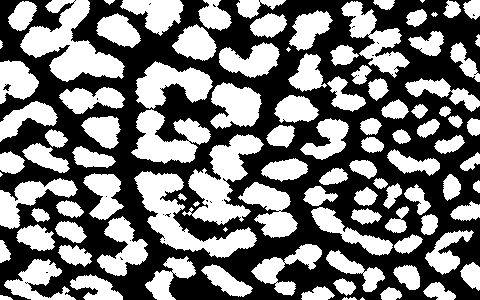
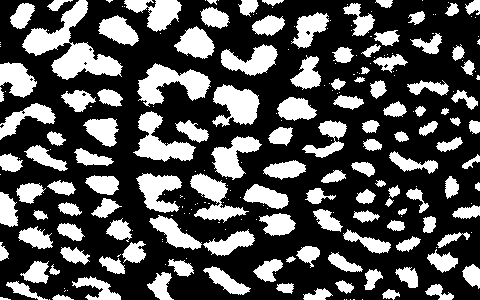
added measuring script

diff --git a/main.py b/main.py
@@ -28,54 +28,36 @@ def main():
 
     #and now, to import a man
     imgMan = cv2.imread("Resources/man.jpeg", 0)
-    #imgMan = cv2.resize(imgMan, (int(imgMan.shape[1] / 2), int(imgMan.shape[0] / 2)))
-
-    cv2.imshow("Grayscale", imgMan)
-    cv2.waitKey(0)
-
-    # plt.hist(imgMan.ravel(), 256, [0,256])
-    # plt.show()
-    # threshold = int(input("What should be the threshold?")) #200
-
     (thres, imgManBW) = cv2.threshold(imgMan, 230, 255, cv2.THRESH_BINARY_INV)
 
-    """
-
-    #the mother function. Dilation and Erotion are, in a way, each others inverse.
-    def dilerotion(img, kernel, dilating=True, BLForeground=False):
-        imgNew = np.zeros_like(img)
-
-        width = img.shape[1]
-        height = img.shape[0]
-
-        if (dilating^BLForeground):
-            for y in range(1, height - 1):
-                for x in range(1, width - 1):
-                    newValue = np.logical_and(img[y - 1: y + 2, x - 1: x + 2], kernel)
-                    imgNew[y, x] = np.any(newValue) * 255
-
-                if dilating:
-                    pb.printProgressBar(y, height - 2,prefix="Dilating...", length=50)
-                else:
-                    pb.printProgressBar(y, height - 2, prefix="Eroding...", length=50)
+    def erosion(img, kernel, blackForeground=False):
+        if blackForeground:
+            return dilation(img, kernel)
         else:
-            for y in range(1, height - 1):
-                for x in range(1, width - 1):
-                    newValue = np.logical_or(img[y - 1: y + 2, x - 1: x + 2], np.logical_not(kernel))
+            imgNew = np.zeros_like(img)
+
+            for y in range(1, img.shape[0] - 1):
+                for x in range(1, img.shape[1] - 1):
+                    newValue = np.bitwise_or(img[y - 1: y + 2, x - 1: x + 2], np.logical_not(kernel))
                     imgNew[y, x] = np.all(newValue) * 255
 
-                if dilating:
-                    pb.printProgressBar(y, height - 2,prefix="Dilating...", length=50)
-                else:
-                    pb.printProgressBar(y, height - 2, prefix="Eroding...", length=50)
-
-        return imgNew
+            return imgNew
 
     """
     #Dialation
     """
     def dilation(img, kernel, blackForeground=False):
-        return dilerotion(img, kernel, dilating=True, BLForeground= blackForeground)
+        if blackForeground:
+            return erosion(img, kernel)
+        else:
+            imgNew = np.zeros_like(img)
+
+            for y in range(1, img.shape[0] - 1):
+                for x in range(1, img.shape[1] - 1):
+                    newValue = np.bitwise_and(img[y - 1: y + 2, x - 1: x + 2], kernel)
+                    imgNew[y, x] = np.any(newValue) * 255
+
+            return imgNew
 
     kernel = np.array([[0, 1, 0], [1, 1, 1], [0, 1, 0]], dtype=np.uint8)
 
@@ -108,7 +90,17 @@ def main():
     #Erotion
     """
     def erotion(img, kernel, blackForeground=False):
-        return dilerotion(img, kernel, dilating=False, BLForeground=blackForeground)
+        if blackForeground:
+            return dilation(img, kernel)
+        else:
+            imgNew = np.zeros_like(img)
+
+            for y in range(1, img.shape[0] - 1):
+                for x in range(1, img.shape[1] - 1):
+                    newValue = np.bitwise_or(img[y - 1: y + 2, x - 1: x + 2], np.logical_not(kernel))
+                    imgNew[y, x] = np.all(newValue) * 255
+
+            return imgNew
 
     kernel = np.array([[0, 1, 0], [1, 1, 1], [0, 1, 0]], dtype=np.uint8)
 
@@ -122,7 +114,7 @@ def main():
     imgCV2ero = cv2.dilate(imgLeopardBW, kernel, iterations=1)
     cv2ErotionTime = (time.time() - starttime)
 
-    print(f"My own erotion function took {homebrewErotionTime} s, cv2's took {cv2ErotionTime} s.")
+    print(f"My own erosion function took {homebrewErotionTime} s, cv2's took {cv2ErotionTime} s.")
 
     cv2.imwrite("Output/LeopardErote.png", imgErote)
     cv2.imwrite("Output/LeopardEroteINV.png", imgEroteINV)
@@ -142,19 +134,19 @@ def main():
     """
 
     #like before, open and close are eachothers inverse
-    def clopen(img, kernel, iterations = 1, open = False, blackForeground=False):
-        if blackForeground^open:
+    def open(img, kernel, iterations = 1, blackForeground = False):
+        if blackForeground:
+            return close(img, kernel, iterations=iterations)
+        else:
             interim = cv2.erode(img, kernel, iterations=iterations)
             return cv2.dilate(interim, kernel, iterations=iterations)
+
+    def close(img, kernel, iterations=1, blackForeground=False):
+        if blackForeground:
+            return open(img, kernel, iterations=iterations)
         else:
             interim = cv2.dilate(img, kernel, iterations=iterations)
-            return cv2.dilate(interim, kernel, iterations=iterations)
-
-    def open(img, kernel, iterations = 1, blackForeground = False):
-        return clopen(img, kernel, iterations = iterations, open = True, blackForeground= blackForeground)
-
-    def close(img, kernel, iterations = 1, blackForeground = False):
-        return clopen(img, kernel, iterations = iterations, blackForeground= blackForeground)
+            return cv2.erode(interim, kernel, iterations=iterations)
 
     kernel = np.array([[0, 1, 0],
                        [1, 1, 1],
@@ -163,11 +155,12 @@ def main():
     imgOpened = open(imgLeopardBW, kernel)
     imgClosed = close(imgLeopardBW, kernel)
 
-    interim = close(imgOpened, kernel)
-    final = open(interim, kernel, iterations=4)
+    interim = close(imgOpened, kernel, iterations=2)
+    final = open(interim, kernel, iterations=2)
 
     cv2.imwrite("Output/LeopardOpened.png", imgOpened)
     cv2.imwrite("Output/LeopardClosed.png", imgClosed)
+    cv2.imwrite("Output/LeopardFinal.png", final)
 
     cv2.imshow("Original", imgLeopardBW)
     cv2.imshow("Opened", imgOpened)
@@ -176,7 +169,6 @@ def main():
 
     cv2.waitKey(0)
 
-    """
 
     """
     #Making a skeleton

diff --git a/util/A4Measuring.py b/util/A4Measuring.py
@@ -1,0 +1,118 @@
+import cv2
+import numpy as np
+import matplotlib.pyplot as plt
+import math
+
+scale = 3
+lP = 297
+wP = 210
+
+def measureObjects(img):
+    def getContours(img, Thres=[100,100], showCanny=False, minArea=1000, filter=0, draw=False, Histogram=False):
+        imgGray = cv2.cvtColor(img, cv2.COLOR_BGR2GRAY)
+        imgGray = cv2.GaussianBlur(imgGray, (5,5), 3)
+        cv2.imshow("gray", imgGray)
+        if Histogram: plt.hist(imgGray.ravel(),256,[0,256]); plt.show()
+        imgCanny = cv2.Canny(img, Thres[0], Thres[1])
+
+        kernel = np.ones((2,2))
+        imgDil = cv2.dilate(imgCanny, kernel, iterations=3)
+        imgThres = cv2.dilate(imgDil,kernel, iterations=2)
+
+        contours, hierarchy = cv2.findContours(imgThres, cv2.RETR_EXTERNAL, cv2.CHAIN_APPROX_SIMPLE)
+
+        if showCanny:
+            cv2.imshow("Canny", imgCanny)
+            cv2.imshow("Thres", imgThres)
+            cv2.waitKey(0)
+
+        finalContours = []
+        for contour in contours:
+            area = cv2.contourArea(contour)
+            if area > minArea:
+                peri = cv2.arcLength(contour, True)
+                approx = cv2.approxPolyDP(contour,0.02*peri, True)
+                bbox = cv2.boundingRect(approx)
+                if filter > 0:
+                    if len(approx) == filter:
+                        finalContours.append([len(approx), area, approx, bbox, contour])
+                else:
+                    finalContours.append([len(approx), area, approx, bbox, contour])
+
+        finalContours = sorted(finalContours, key= lambda x:x[0], reverse=True)
+
+        if draw:
+            for con in finalContours:
+                cv2.drawContours(img, con[4], -1, (0, 0, 255), 3)
+
+        return img, finalContours
+
+    def reorder(mypoints):
+        newMypoints = np.zeros_like(mypoints)
+        mypoints = mypoints.reshape((4, 2))
+
+        add = np.sum(mypoints, 1)
+        newMypoints[0] = mypoints[np.argmin(add)]
+        newMypoints[3] = mypoints[np.argmax(add)]
+
+        diff = np.diff(mypoints, 1)
+        newMypoints[1] = mypoints[np.argmin(diff)]
+        newMypoints[2] = mypoints[np.argmax(diff)]
+
+        return newMypoints
+
+    def warpImg(img, points, w, h, pad=20):
+        reorderedPoints = reorder(points)
+        pts1 = np.float32(reorderedPoints)
+        pts2 = np.float32([[0,0], [w,0], [0,h], [w,h]])
+
+        warpMatrix = cv2.getPerspectiveTransform(pts1, pts2)
+        imgWarp = cv2.warpPerspective(img, warpMatrix, (w,h))
+        imgWarp = imgWarp[pad:imgWarp.shape[0] - pad, pad:imgWarp.shape[1] - pad]
+
+        return imgWarp
+
+    img, contours = getContours(img, Thres=[195,200],minArea=50000, filter=4)
+    if len(contours) != 0:
+        biggest = contours[0][2]
+        imgWarped = warpImg(img, biggest, wP*scale, lP*scale)
+        imgContours, contours2 = getContours(imgWarped, minArea=1000, Thres=[50,90], filter=4)
+
+        if len(contours2) != 0:
+            for contour in contours2:
+                # cv2.polylines(imgContours, [contour[2]], True, (0, 255, 0), 3)
+                points = reorder(contour[2])
+                width = math.dist(points[0][0], points[1][0]) // scale
+                length = math.dist(points[0][0], points[2][0]) // scale
+                # print(f"object width is {width}, length is {length}.")
+                blue = (255, 0, 0)
+                x, y, w, h = contour[3]
+                cv2.arrowedLine(imgWarped, tuple(points[0][0]), tuple(points[1][0]), blue, 3, 8, 0, 0.05)
+                cv2.arrowedLine(imgWarped, tuple(points[0][0]), tuple(points[2][0]), blue, 3, 8, 0, 0.05)
+                cv2.putText(imgWarped, '{} mm'.format(width), (x + 30, y - 10), cv2.FONT_HERSHEY_COMPLEX_SMALL, 1, blue, 1)
+                cv2.putText(imgWarped, '{} mm'.format(length), (x - 70, y + h // 2), cv2.FONT_HERSHEY_COMPLEX_SMALL, 1, blue, 1)
+
+
+    return imgContours, [[12, 2], [14, 5]]
+
+
+
+def main():
+    imgOriginal = cv2.imread("../Resources/A4.jpeg")
+    imgResized = cv2.resize(imgOriginal, (0,0) , None, 0.5, 0.5)
+
+    img, objectsMeasurements = measureObjects(imgResized)
+
+    cv2.imshow("Original", imgResized)
+    cv2.imshow("Measure overlay", img)
+
+    for i in range(len(objectsMeasurements)):
+        print(f"Object nr {i} has length {objectsMeasurements[i][0]} and width {objectsMeasurements[i][1]}.")
+
+    cv2.waitKey(0)
+
+
+    pass
+
+if __name__ == "__main__":
+    main()
